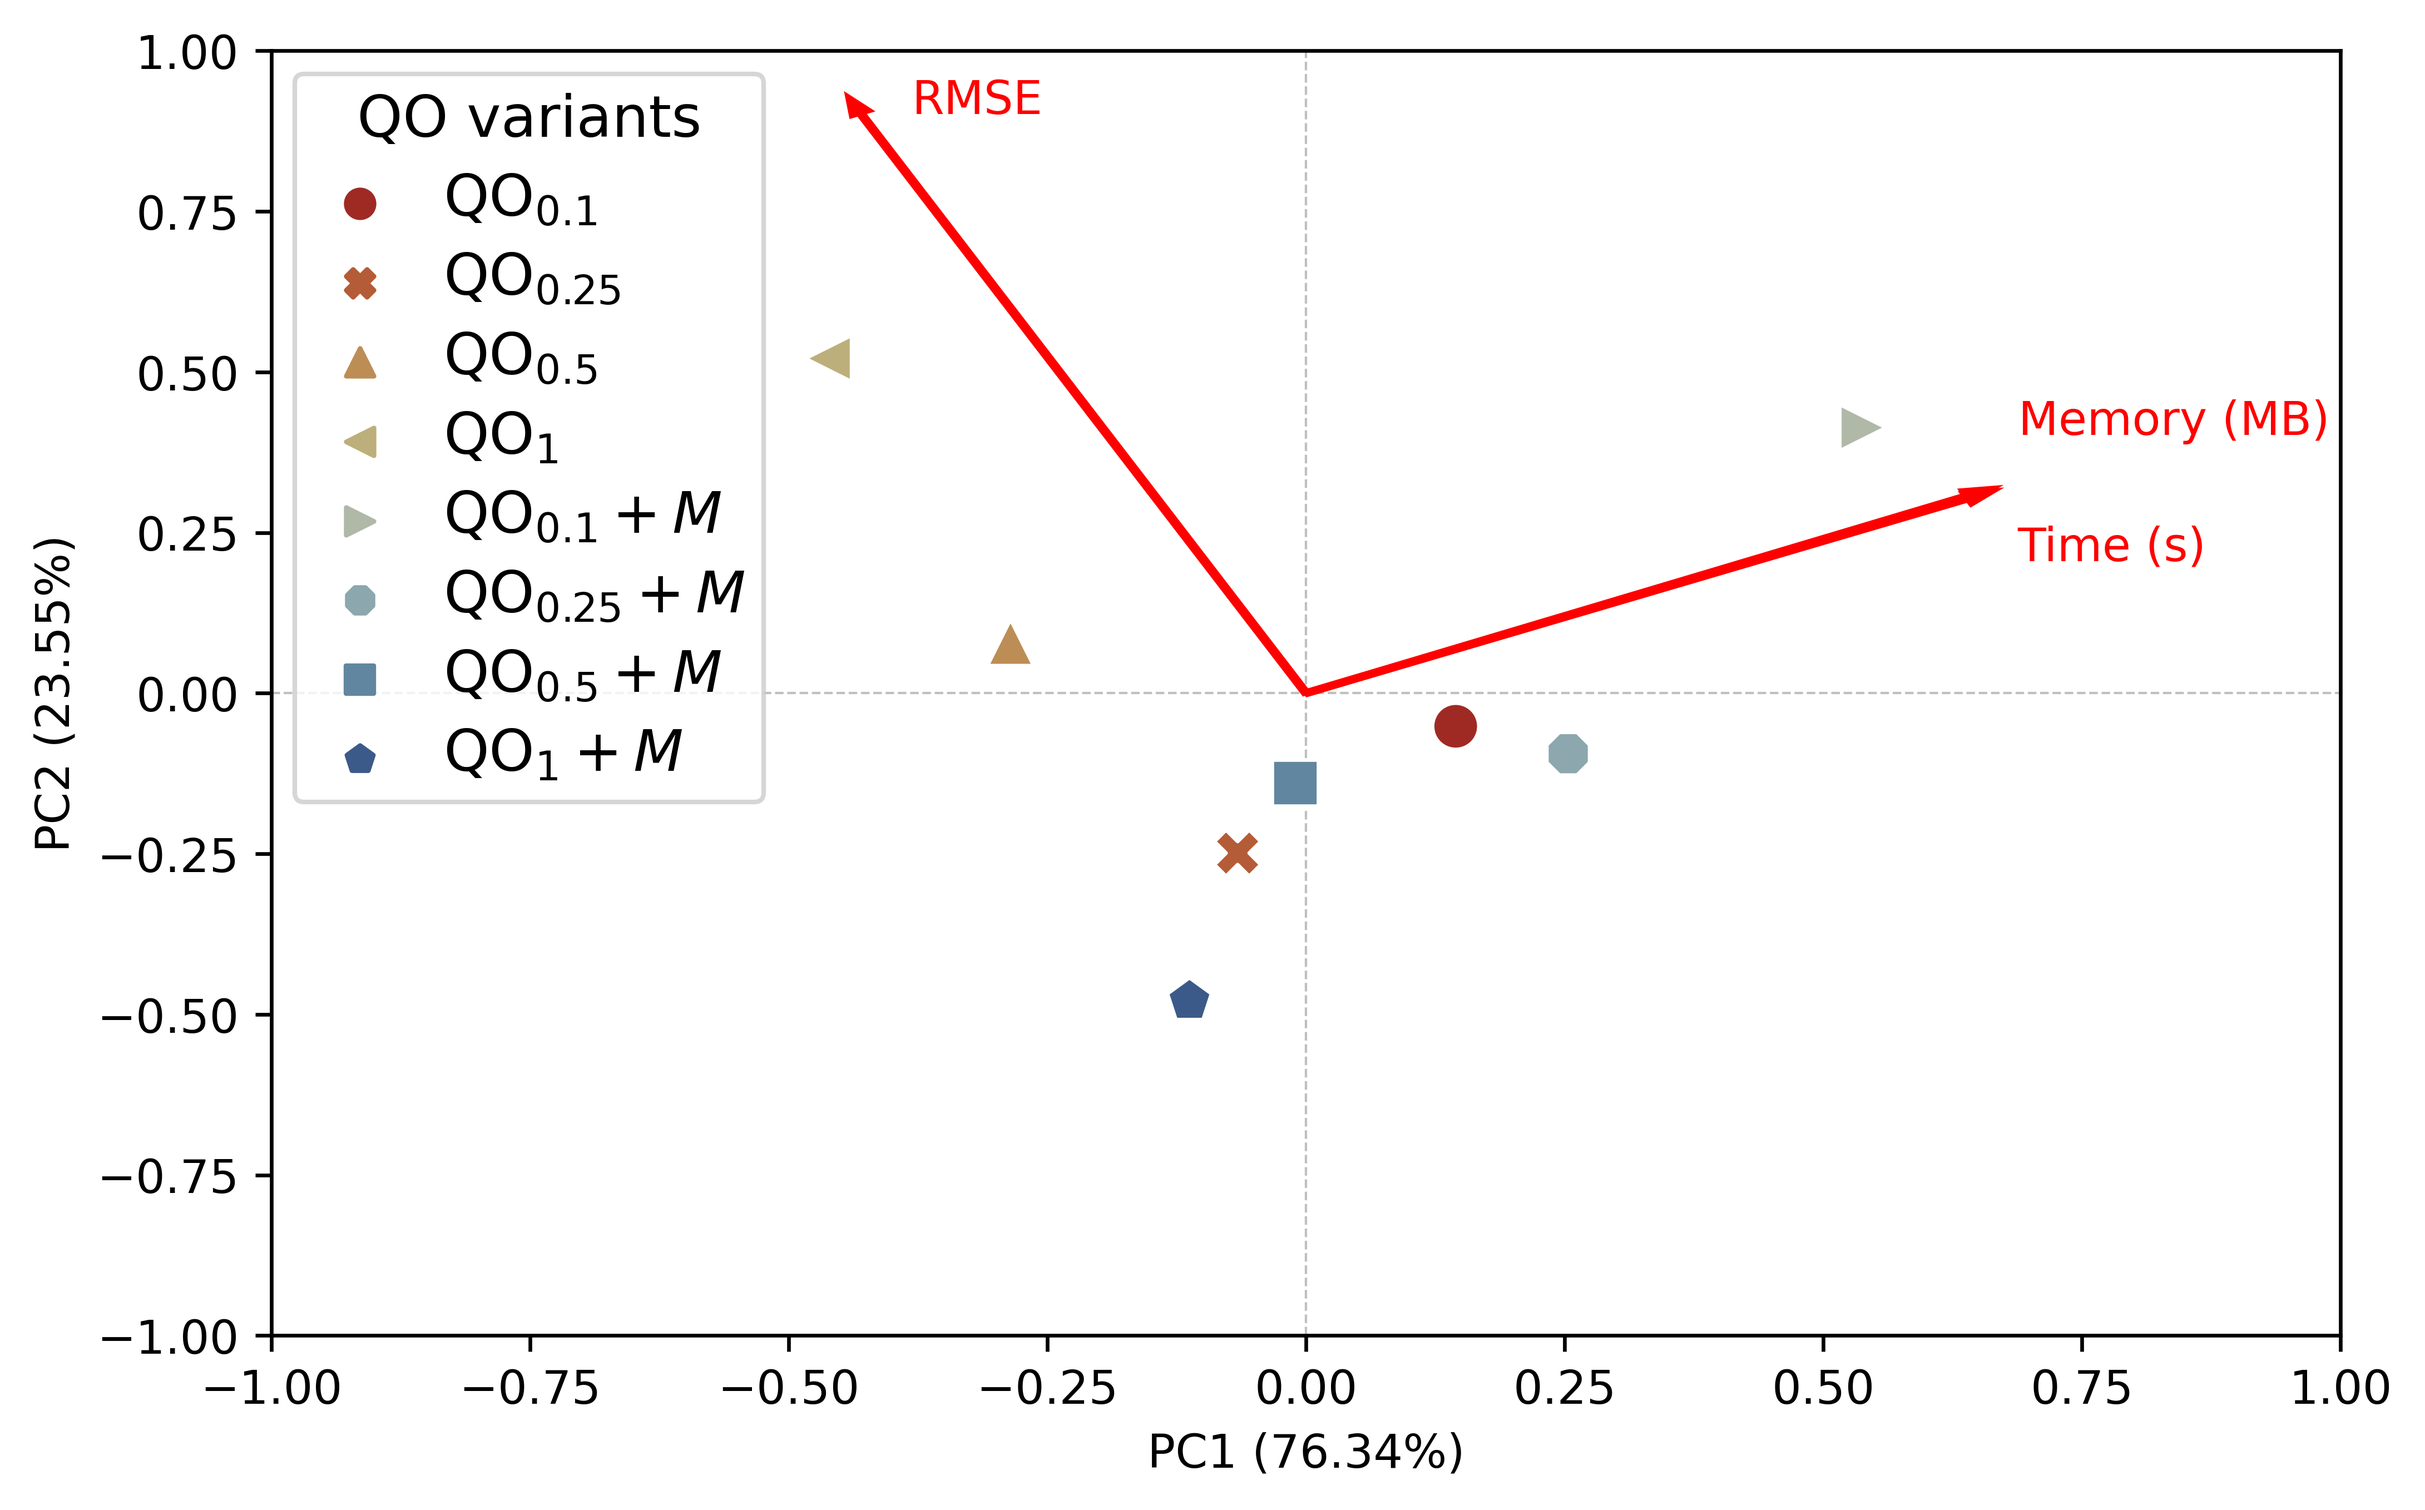
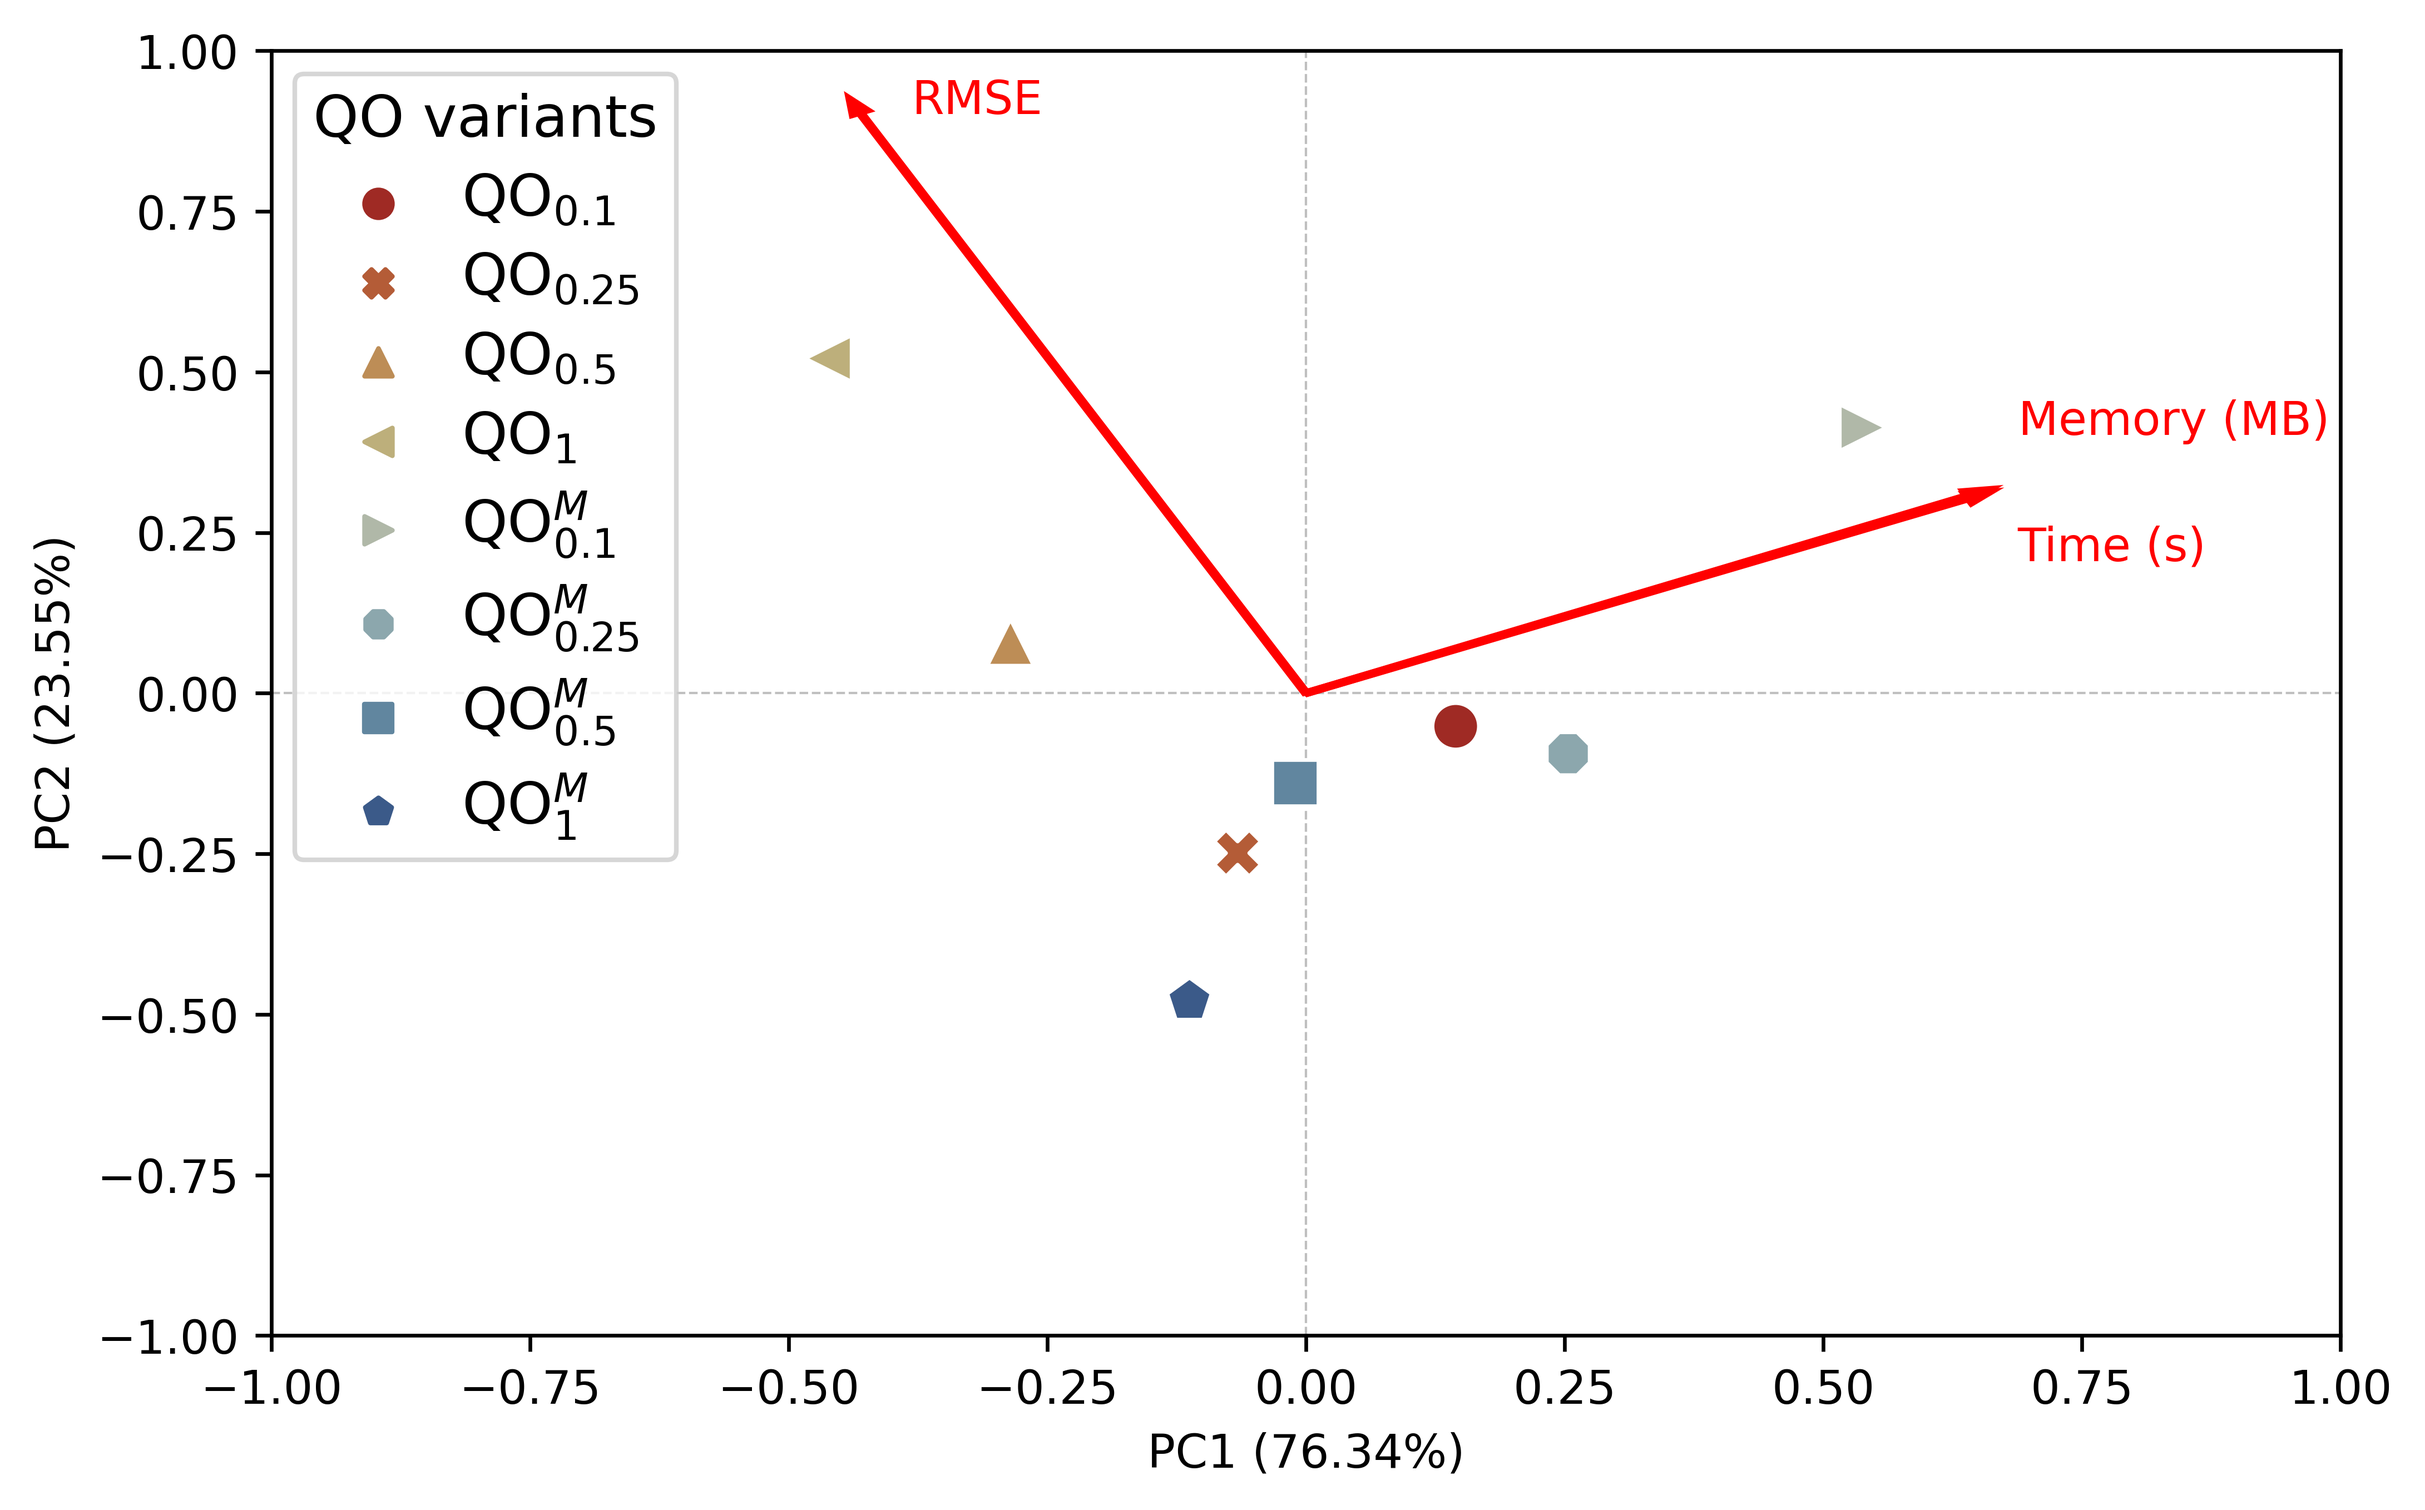
change naming pattern

Changed region(s): [[0.1248, 0.0619, 0.3119, 0.5878]]

diff --git a/src/utils.py b/src/utils.py
@@ -56,41 +56,41 @@ N_REPS = 5
 
 
 MODELS = {
-    "HTR + E-BST": tree.HoeffdingTreeRegressor(
-        leaf_prediction="mean"
-    ),
-    "HTR + TE-BST": tree.HoeffdingTreeRegressor(
-        leaf_prediction="mean",
-        splitter=tree.splitter.TEBSTSplitter(digits=2),
-    ),
-    # "HTR + QO$_{0.1}$": tree.HoeffdingTreeRegressor(
-    #     leaf_prediction="mean",
-    #     splitter=tree.splitter.QOSplitter(radius=0.1)
+    # "HTR + E-BST": tree.HoeffdingTreeRegressor(
+    #     leaf_prediction="mean"
     # ),
+    # "HTR + TE-BST": tree.HoeffdingTreeRegressor(
+    #     leaf_prediction="mean",
+    #     splitter=tree.splitter.TEBSTSplitter(digits=2),
+    # ),
+    "HTR + QO$_{0.1}$": tree.HoeffdingTreeRegressor(
+        leaf_prediction="mean",
+        splitter=tree.splitter.QOSplitter(radius=0.1)
+    ),
     "HTR + QO$_{0.25}$": tree.HoeffdingTreeRegressor(
         leaf_prediction="mean",
         splitter=tree.splitter.QOSplitter(radius=0.25)
     ),
-    # "HTR + QO$_{0.5}$": tree.HoeffdingTreeRegressor(
-    #     leaf_prediction="mean",
-    #     splitter=tree.splitter.QOSplitter(radius=0.5)
-    # ),
-    # "HTR + QO$_1$": tree.HoeffdingTreeRegressor(
-    #     leaf_prediction="mean",
-    #     splitter=tree.splitter.QOSplitter(radius=1)
-    # ),
-    # "HTR + QO$_{0.1} + M$": tree.HoeffdingTreeRegressor(
-    #     leaf_prediction="mean",
-    #     splitter=tree.splitter.QOSplitter(radius=0.1, allow_multiway_splits=True)
-    # ),
-    # "HTR + QO$_{0.25} + M$": tree.HoeffdingTreeRegressor(
-    #     leaf_prediction="mean",
-    #     splitter=tree.splitter.QOSplitter(radius=0.25, allow_multiway_splits=True)
-    # ),
-    # "HTR + QO$_{0.5} + M$": tree.HoeffdingTreeRegressor(
-    #     leaf_prediction="mean",
-    #     splitter=tree.splitter.QOSplitter(radius=0.5, allow_multiway_splits=True)
-    # ),
+    "HTR + QO$_{0.5}$": tree.HoeffdingTreeRegressor(
+        leaf_prediction="mean",
+        splitter=tree.splitter.QOSplitter(radius=0.5)
+    ),
+    "HTR + QO$_1$": tree.HoeffdingTreeRegressor(
+        leaf_prediction="mean",
+        splitter=tree.splitter.QOSplitter(radius=1)
+    ),
+    "HTR + QO$_{0.1} + M$": tree.HoeffdingTreeRegressor(
+        leaf_prediction="mean",
+        splitter=tree.splitter.QOSplitter(radius=0.1, allow_multiway_splits=True)
+    ),
+    "HTR + QO$_{0.25} + M$": tree.HoeffdingTreeRegressor(
+        leaf_prediction="mean",
+        splitter=tree.splitter.QOSplitter(radius=0.25, allow_multiway_splits=True)
+    ),
+    "HTR + QO$_{0.5} + M$": tree.HoeffdingTreeRegressor(
+        leaf_prediction="mean",
+        splitter=tree.splitter.QOSplitter(radius=0.5, allow_multiway_splits=True)
+    ),
     "HTR + QO$_{1} + M$": tree.HoeffdingTreeRegressor(
         leaf_prediction="mean",
         splitter=tree.splitter.QOSplitter(radius=1, allow_multiway_splits=True)

diff --git a/src/biplot_generator.py b/src/biplot_generator.py
@@ -15,6 +15,13 @@ metric_prettyfier = {
     "time": "Time (s)"
 }
 
+model_prettyfier = {
+    "HTR + QO$_{0.1} + M$": "HTR + QO$_{0.1}^M$",
+    "HTR + QO$_{0.25} + M$": "HTR + QO$_{0.25}^M$",
+    "HTR + QO$_{0.5} + M$": "HTR + QO$_{0.5}^M$",
+    "HTR + QO$_{1} + M$": "HTR + QO$_{1}^M$",
+}
+
 raw_results = {
     metric: pd.DataFrame(
         np.zeros((len(DATASETS), len(MODELS))),
@@ -33,7 +40,7 @@ proc_results = pd.DataFrame(
     columns=list(metric_prettyfier.values())
 )
 
-proc_results["variant"] = list(MODELS.keys())
+proc_results["variant"] = [model_prettyfier.get(name, name) for name in MODELS.keys()]
 
 for metric, metricp in metric_prettyfier.items():
     for i in range(len(raw_results[metric])):
